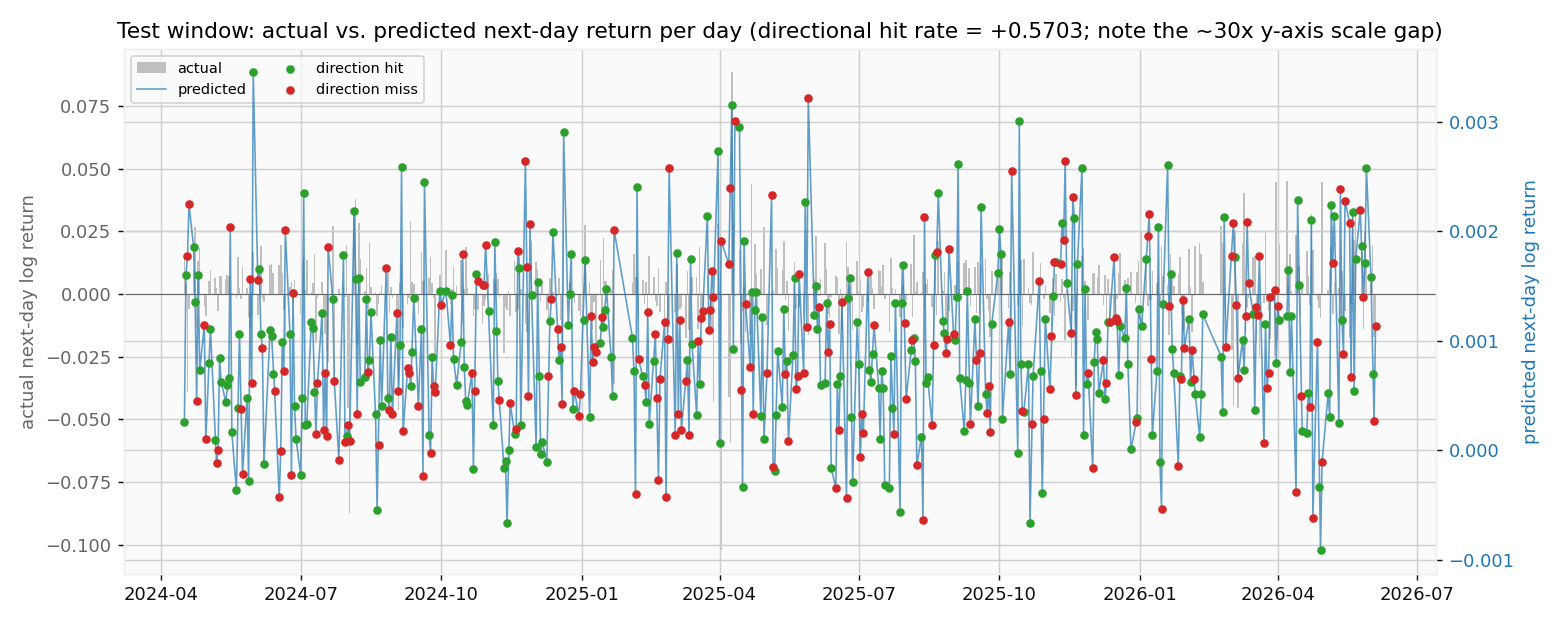
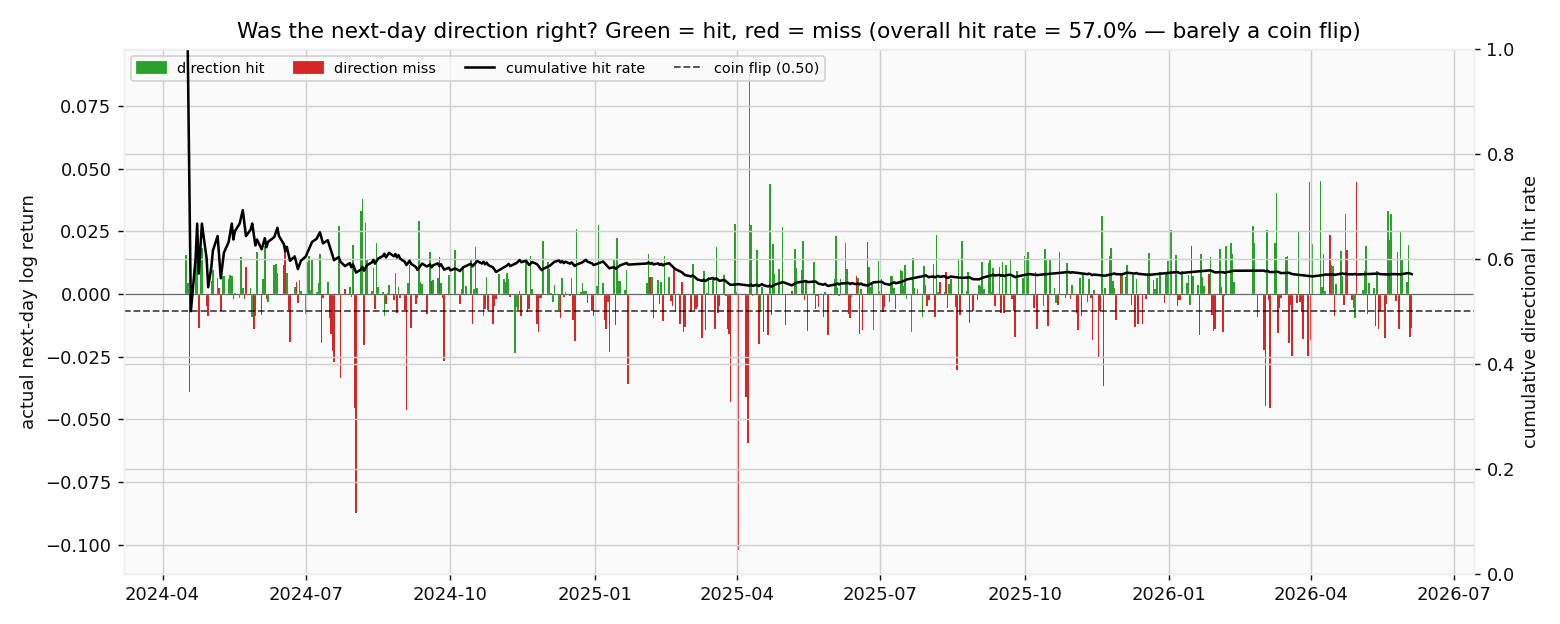
better plot

diff --git a/src/twii_forecast/plots.py b/src/twii_forecast/plots.py
@@ -106,45 +106,49 @@ def confusion_matrix(cm, metrics: dict, fname: str = "direction_confusion.png") 
 def actual_vs_predicted_timeseries(
     dates, y_true, y_pred, fname: str = "actual_vs_predicted_timeseries.png"
 ) -> str:
-    """Per-test-day actual vs predicted next-day return over time.
+    """Per-test-day directional scorecard: was the model right or wrong each day?
 
-    Because predicted magnitudes are ~30x smaller than actuals (the model shrinks
-    toward the conditional median), the two are drawn on **separate y-axes** so the
-    predicted *shape/timing* is visible alongside the actual series. Predicted markers
-    are coloured by directional hit (green = sign matched the actual move, red = missed),
-    which is the per-day view of the confusion matrix.
+    The model's *predicted magnitude* is near-constant and not meaningful, so we drop
+    it entirely and visualise only what matters: the **direction call**. Each actual
+    next-day return is a bar coloured **green when the model got the sign right** and
+    **red when it missed**. A running cumulative hit-rate line is overlaid against a
+    0.5 coin-flip reference — the whole point is that it never pulls away from chance.
     """
     y_true = np.asarray(y_true, dtype=float)
     y_pred = np.asarray(y_pred, dtype=float)
     hit = np.sign(y_pred) == np.sign(y_true)
+    dir_acc = float(np.mean(hit)) if len(hit) else float("nan")
+    running = np.cumsum(hit) / np.arange(1, len(hit) + 1)
 
     fig, ax1 = plt.subplots(figsize=(12, 4.8))
 
-    # actual on the primary axis (grey bars)
-    ax1.bar(dates, y_true, width=1.0, color="0.75", label="actual")
+    # actual returns as bars, coloured by whether the model called the direction right
+    colors = np.where(hit, "tab:green", "tab:red")
+    ax1.bar(dates, y_true, width=1.0, color=colors)
     ax1.axhline(0, color="0.4", lw=0.6)
-    ax1.set_ylabel("actual next-day log return", color="0.4")
-    ax1.tick_params(axis="y", labelcolor="0.4")
+    ax1.set_ylabel("actual next-day log return")
+    ax1.margins(x=0.01)
 
-    # predicted on a twin axis (line + hit/miss markers)
+    # running directional hit rate vs the coin-flip line, on a twin axis
     ax2 = ax1.twinx()
-    ax2.plot(dates, y_pred, color="tab:blue", lw=0.9, alpha=0.7, label="predicted")
-    ax2.scatter(np.asarray(dates)[hit], y_pred[hit], s=14,
-                color="tab:green", label="direction hit", zorder=3)
-    ax2.scatter(np.asarray(dates)[~hit], y_pred[~hit], s=14,
-                color="tab:red", label="direction miss", zorder=3)
-    ax2.set_ylabel("predicted next-day log return", color="tab:blue")
-    ax2.tick_params(axis="y", labelcolor="tab:blue")
+    ax2.plot(dates, running, color="black", lw=1.4, label="cumulative hit rate")
+    ax2.axhline(0.5, color="black", ls="--", lw=1.0, alpha=0.7, label="coin flip (0.50)")
+    ax2.set_ylim(0.0, 1.0)
+    ax2.set_ylabel("cumulative directional hit rate")
 
-    dir_acc = float(np.mean(hit)) if len(hit) else float("nan")
+    # legend: explain the bar colours + the running line
+    from matplotlib.patches import Patch
+    handles = [
+        Patch(color="tab:green", label="direction hit"),
+        Patch(color="tab:red", label="direction miss"),
+        *ax2.get_legend_handles_labels()[0],
+    ]
+    ax1.legend(handles=handles, loc="upper left", fontsize=8, ncol=4)
+
     ax1.set_title(
-        f"Test window: actual vs. predicted next-day return per day "
-        f"(directional hit rate = {dir_acc:+.4f}; note the ~30x y-axis scale gap)"
+        f"Was the next-day direction right? Green = hit, red = miss "
+        f"(overall hit rate = {dir_acc:.1%} — barely a coin flip)"
     )
-    # merged legend
-    h1, l1 = ax1.get_legend_handles_labels()
-    h2, l2 = ax2.get_legend_handles_labels()
-    ax1.legend(h1 + h2, l1 + l2, loc="upper left", fontsize=8, ncol=2)
 
     p = config.REPORTS / fname
     fig.tight_layout(); fig.savefig(p, dpi=130); plt.close(fig)